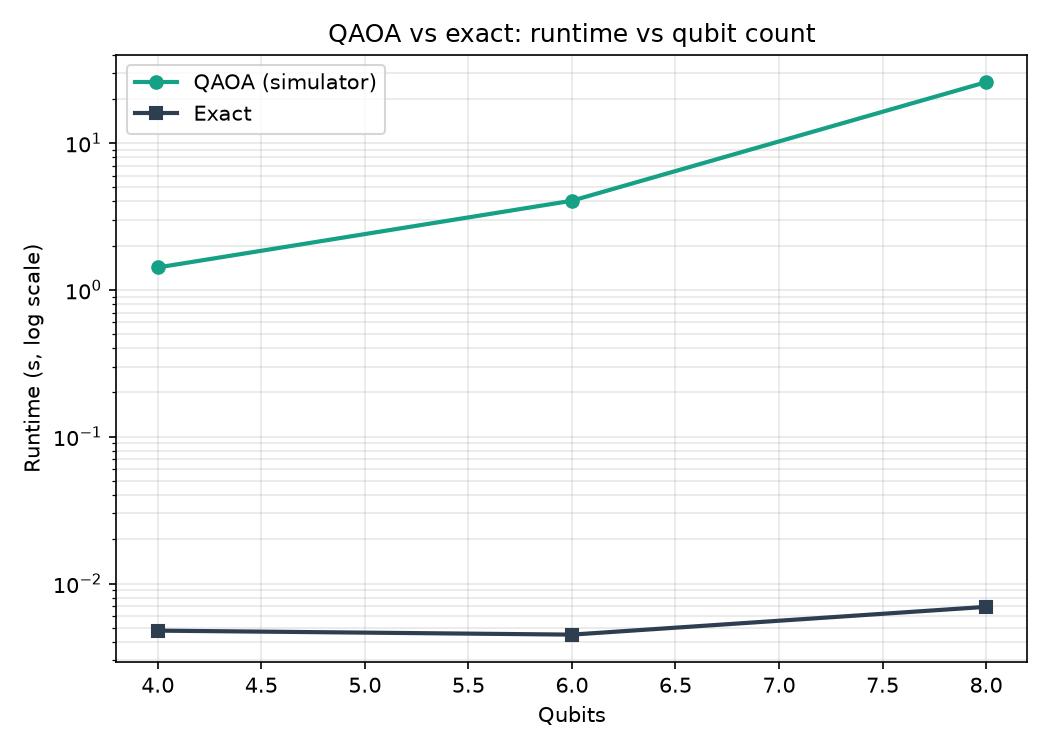
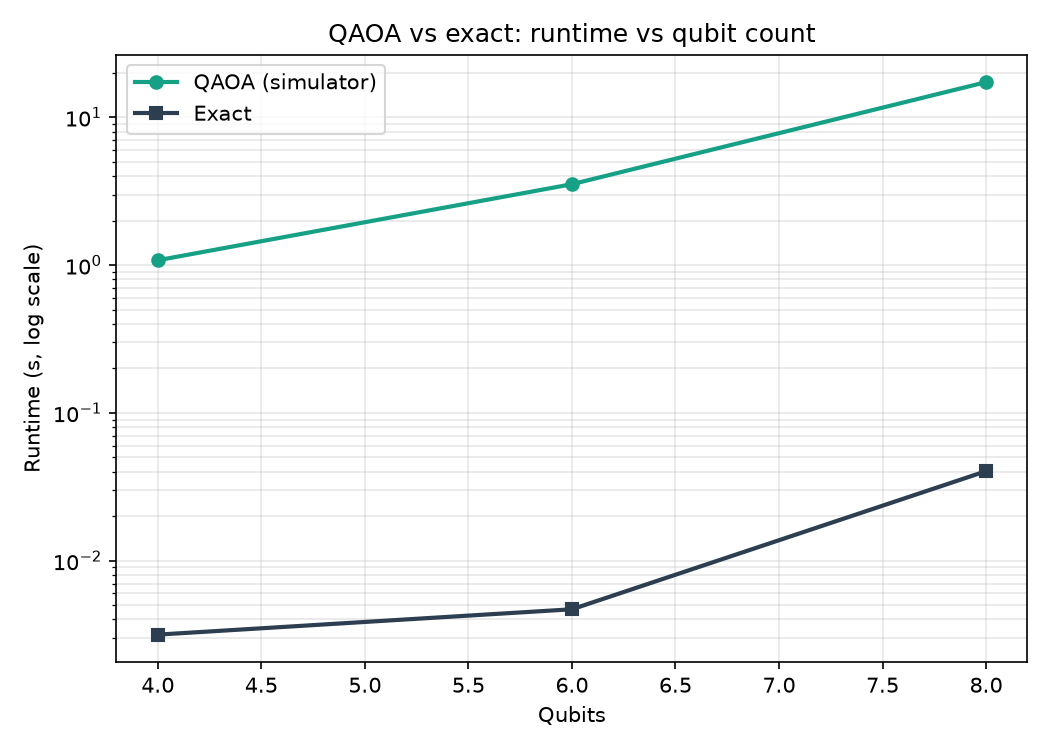
Fix NSGA-II compromise selection; rerun synthetic benchmark

diff --git a/nsga2_solver.py b/nsga2_solver.py
@@ -15,6 +15,11 @@ Extends the single-objective GA to TWO objectives, both minimized:
 Returns a Pareto front (the set of non-dominated trade-off solutions) plus a
 single "best compromise" pick for easy comparison against SA/GA's single number.
 
+Best-compromise rule: restrict to capacity-feasible solutions first, then take
+the lowest-cost solution with zero latency violation; if none has zero
+violation, take the lowest-cost capacity-feasible solution. Only if no
+capacity-feasible solution exists does it fall back to the whole front.
+
 Usage:
     from data_generator import generate_scenario
     from nsga2_solver import nsga2
@@ -59,6 +64,15 @@ def latency_violation(assignment, tasks, servers):
         if est_latency > required:
             violation += est_latency - required
     return violation
+
+
+def _capacity_overflow(assignment, tasks, servers):
+    """Total compute units placed beyond server capacity (0 = feasible)."""
+    size = {t["id"]: t["size"] for t in tasks}
+    load = {s["id"]: 0 for s in servers}
+    for task_id, server_id in assignment.items():
+        load[server_id] += size[task_id]
+    return sum(max(0, load[s["id"]] - s["capacity"]) for s in servers)
 
 
 def _objectives(individual, tasks, servers):
@@ -230,10 +244,15 @@ def nsga2(
         cost, violation = final_objectives[i]
         pareto_front.append({"assignment": assignment, "cost": cost, "latency_violation": violation})
 
-    # "Best compromise": lowest cost among zero-violation solutions;
-    # falls back to lowest cost overall if none are fully feasible.
-    feasible = [p for p in pareto_front if p["latency_violation"] == 0]
-    pool = feasible if feasible else pareto_front
+    # "Best compromise": restrict to capacity-feasible solutions first, then
+    # take the lowest cost among zero-latency-violation solutions; if none
+    # have zero violation, take the lowest cost among capacity-feasible ones.
+    # Falls back to the whole front only if nothing is capacity-feasible.
+    cap_ok = [p for p in pareto_front
+              if _capacity_overflow(p["assignment"], tasks, servers) == 0]
+    base = cap_ok if cap_ok else pareto_front
+    feasible = [p for p in base if p["latency_violation"] == 0]
+    pool = feasible if feasible else base
     best = min(pool, key=lambda p: p["cost"])
 
     return pareto_front, best["assignment"], best["cost"], best["latency_violation"], history
